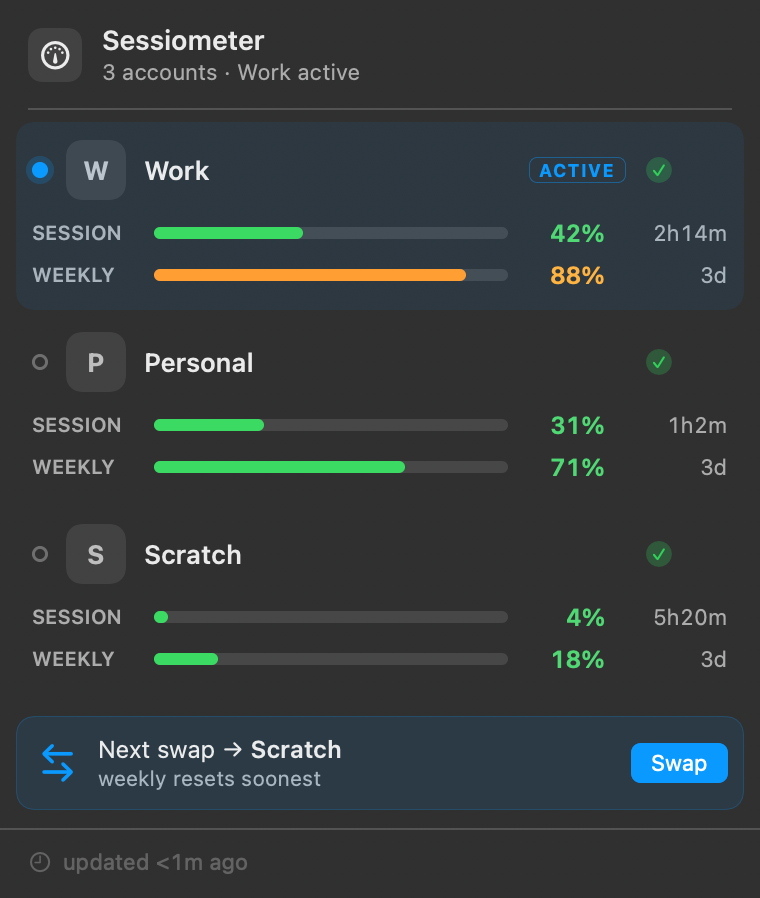
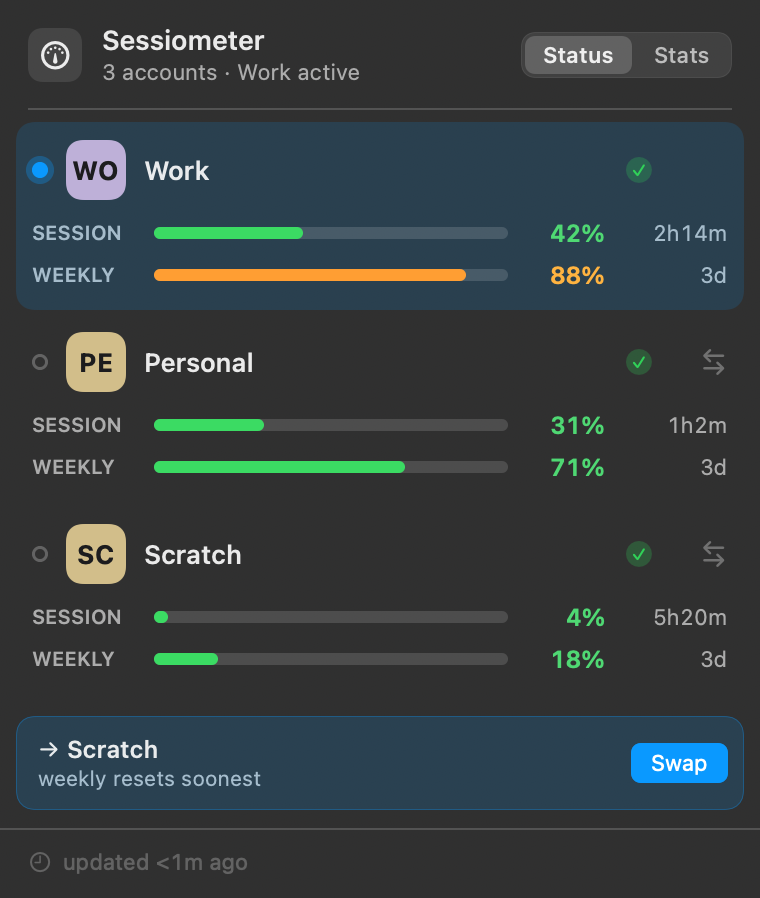
(docs) menubar: regenerate the drifted design/renders/ PNGs (#703) (#710)
All three committed rasters under apps/menubar/design/renders/ were many commits behind what
they depict. Regenerated from current sources and reconciled the README to match.

- all-states.png — re-rendered from the current menubar-preview.html (9 mock edits behind:
  #579, #589, #677, #682, #684, #701, #705, #706, #708).
- panel-healthy-{light,dark}.png — re-rendered from a current Debug build via --render-panel
  (45 apps/menubar/Sources commits behind). They now show the #445 two-letter identity-coloured
  monograms and the #448 persistent per-row swap chip; the previous images predated both.

The mock had outgrown the documented render height. Measured its true extent by rendering at
scale 1 and bisecting horizontal bands by encoded size: content ends at ~9280 CSS px, so the
documented --window-size=1200,8600 was clipping ~680 px — the entire closing-notes block. The
old committed render confirms it: its last content row was y=12897 of 12900, with zero blank
rows below. Bumped to 9600 (1800x14400, ~320 px headroom) and recorded the measurement so the
next maintainer can see the remaining slack before adding a state rather than after.

README reconciliation:
- the "panel-healthy-*.png are stale (pre-#448)" caveat is now false — replaced with the
  durable invariant (regeneration needs a GUI/windowserver session, so it stays a manual
  pre-release step) rather than a fresh "current as of" snapshot, which would rot the same way
[…]

diff --git a/apps/menubar/design/README.md b/apps/menubar/design/README.md
@@ -21,12 +21,13 @@ blacks out the vibrancy). Run from this directory:
 ```sh
 "/Applications/Google Chrome.app/Contents/MacOS/Google Chrome" \
   --headless=new --hide-scrollbars --force-device-scale-factor=1.5 \
-  --window-size=1200,8600 --screenshot=renders/all-states.png \
+  --window-size=1200,9600 --screenshot=renders/all-states.png \
   menubar-preview.html
 ```
 
 (Bump the `--window-size` height if the page ever grows past it — the committed render is
-1800×12900 at this `8600` height × the `1.5` device scale; a shorter height clips the notes.)
+1800×14400 at this `9600` height × the `1.5` device scale; a shorter height clips the notes. The
+mock ends at ~9280 CSS px as of #703, so `9600` leaves ~320 px of headroom.)
 
 ## Rendering the BUILT panel (design-parity check)
 
@@ -45,7 +46,9 @@ BIN=".build/xcode/Build/Products/Debug/Sessiometer.app/Contents/MacOS/Sessiomete
 ```
 
 Output: `renders/panel-healthy-{light,dark}.png` — the built app (distinct from `all-states.png`,
-which is the mock). Light shown here:
+which is the mock). These are safe to commit: `RenderPanelTool` pins a fixture roster (`Work` /
+`Personal` / `Scratch`), and the wire carries only the operator-chosen label, never an email (#15).
+Light shown here:
 
 ![Built panel — healthy, light](renders/panel-healthy-light.png)
 
@@ -76,17 +79,15 @@ does not render at all, so it is likewise a manual real-popover check. Treat a b
 capture-field box in the PNGs as a known tool artifact, not a panel defect.
 
 **Harness limitation — ARMED / in-flight states are NOT captured.** `ImageRenderer` draws one resting
-frame. As of #448 the per-row manual-switch chip is PERSISTENT, so a **fresh** render captures its
-resting glyph (`arrow.left.arrow.right`, or the `nosign` on a non-viable row) at its quiet `.tertiary`
-emphasis. What a single resting frame still can't show is the ARMED state — the hover/focus brighten to
-`.secondary`, the row wash, the `pointingHand` cursor — nor the in-flight `Switching…` spinner; those
-are interaction states, so they stay a manual operator check (#380) — as does the real-popover swap
-round-trip. **Note:** the committed `panel-healthy-*.png` are stale (pre-#448). The `--render-panel`
-crash that blocked regeneration (a missing `PanelStatsModel` environment object) is FIXED as of #504,
-but regenerating the PNGs runs the built app's `ImageRenderer` path, which needs a GUI / windowserver
-session — so it is a **manual pre-release step** (run the command above on a workstation), not something
-headless CI can do. #448 validated against the **mock** render (`all-states.png`, which does show the
-chip) + unit tests instead.
+frame. As of #448 the per-row manual-switch chip is PERSISTENT, so a render captures its resting glyph
+(`arrow.left.arrow.right`, or the `nosign` on a non-viable row) at its quiet `.tertiary` emphasis — the
+committed `panel-healthy-*.png` show it on every switchable row. What a single resting frame still
+can't show is the ARMED state — the hover/focus brighten to `.secondary`, the row wash, the
+`pointingHand` cursor — nor the in-flight `Switching…` spinner; those are interaction states, so they
+stay a manual operator check (#380) — as does the real-popover swap round-trip. **Note:** regenerating
+the committed PNGs runs the built app's `ImageRenderer` path, which needs a GUI / windowserver session
+— so it stays a **manual pre-release step** (run the command above on a workstation), not something
+headless CI can do.
 
 ### Design vs. capture, screen by screen
 
@@ -229,8 +230,7 @@ BIN=".build/xcode/Build/Products/Debug/Sessiometer.app/Contents/MacOS/Sessiomete
 "$BIN" --render-bar-glyphs "$PWD/design/renders/bar-glyphs"
 ```
 
-These renders carry **no account data** (they are bare glyphs), so — unlike the status *panel* captures,
-which show real account emails and must never be committed — they are safe to commit, and are.
+These renders carry **no account data** (they are bare glyphs), so they are safe to commit, and are.
 
 The drift gate is `Tests/BarGlyphParityTests` (CI-enforced under the `swift` job, headless): it re-renders
 every cell and asserts each matches its reference, that the four glyphs stay pairwise distinct in every
